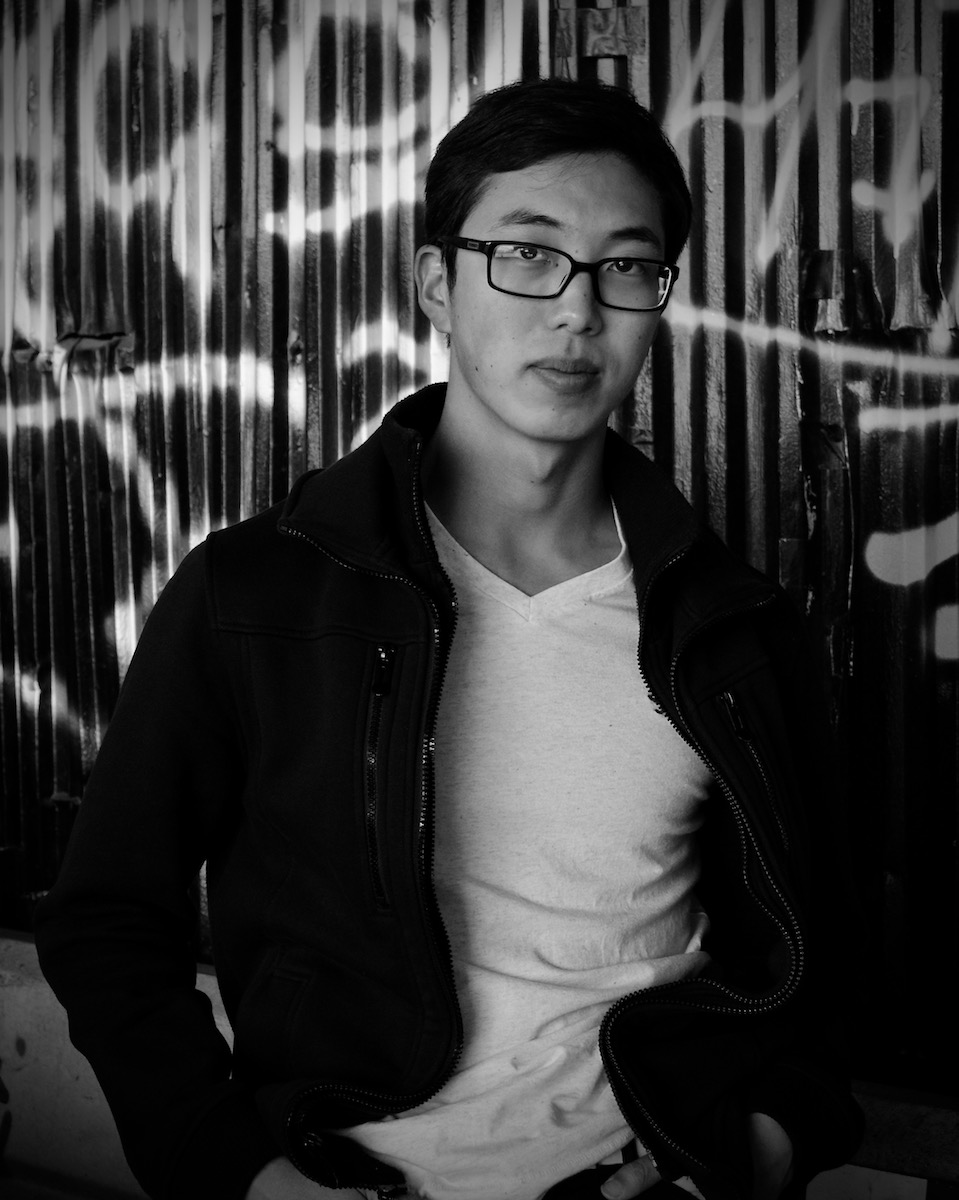
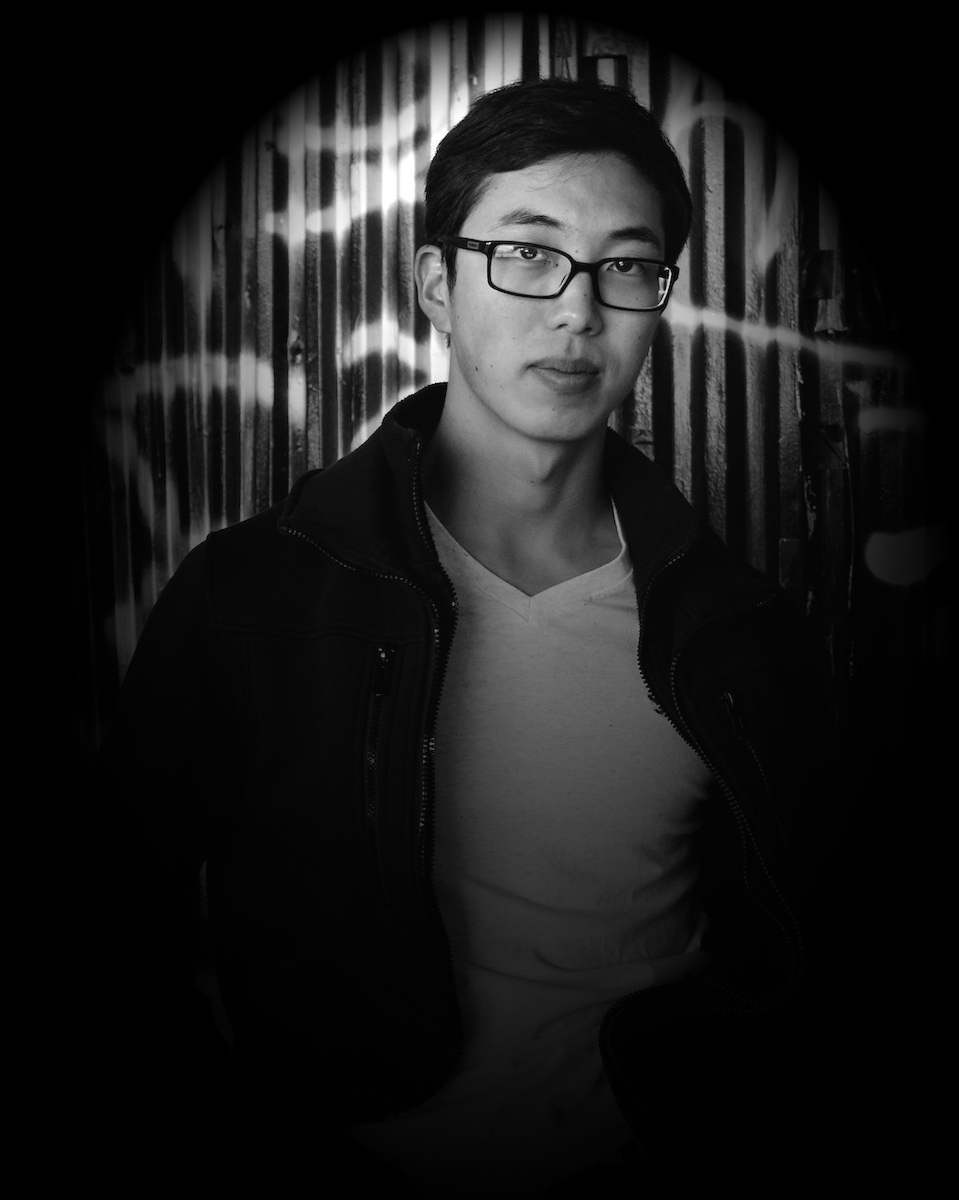
Add vignetted portrait with a delayed transition to hide the edges.

diff --git a/_sass/minima/_layout.scss b/_sass/minima/_layout.scss
@@ -8,14 +8,13 @@
     .portrait-photo {
       max-height: 70vh;
       opacity: 0; // Only show when the background is inverted.
-      transition: opacity 0.8s;
     }
     .page-intro {
       @include relative-font-size(2.2);
       position: absolute;
       top: 45%;
       color: $background-color;
-      animation: delayedfadein 2s;
+      animation: delayedfadein 3s;
     }
   }
   .home-sample-container {

diff --git a/_sass/minima/_includes.scss b/_sass/minima/_includes.scss
@@ -249,6 +249,7 @@ body {
     #home-screen-jonathankim {
       .portrait-photo {
         opacity: 1;
+        animation: delayedfadein 2s;
       }
     }
     #home-screen-developer .home-sample-container {
